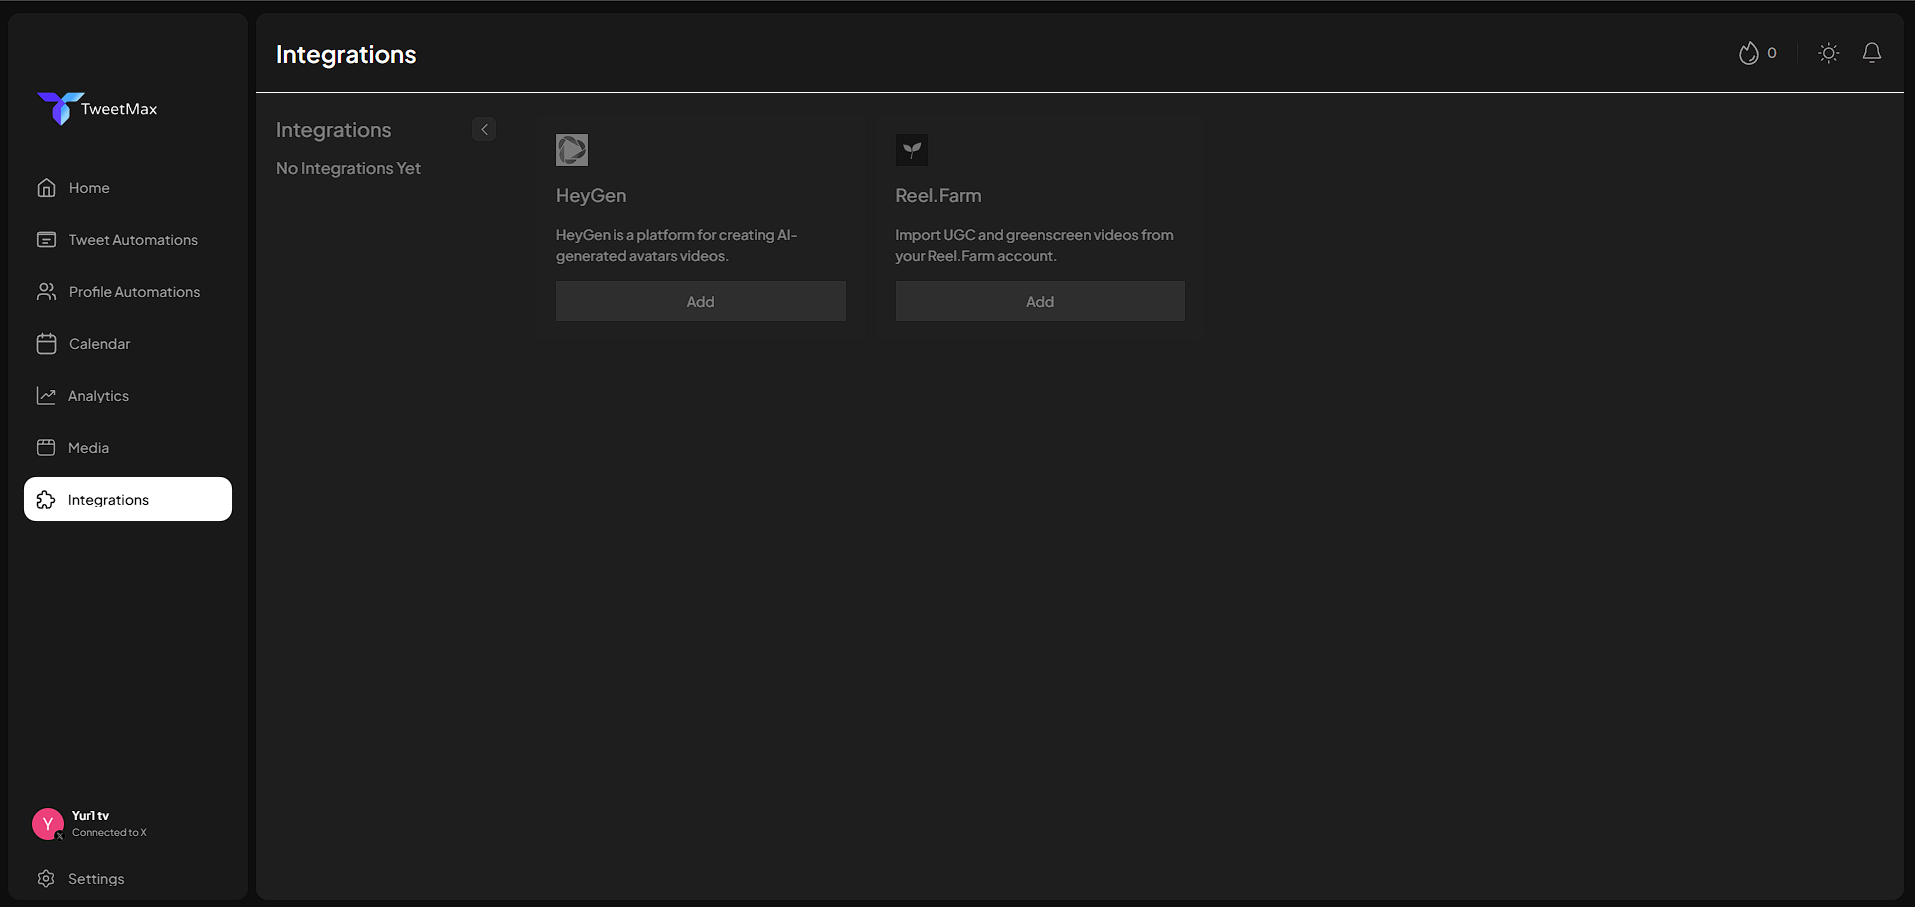
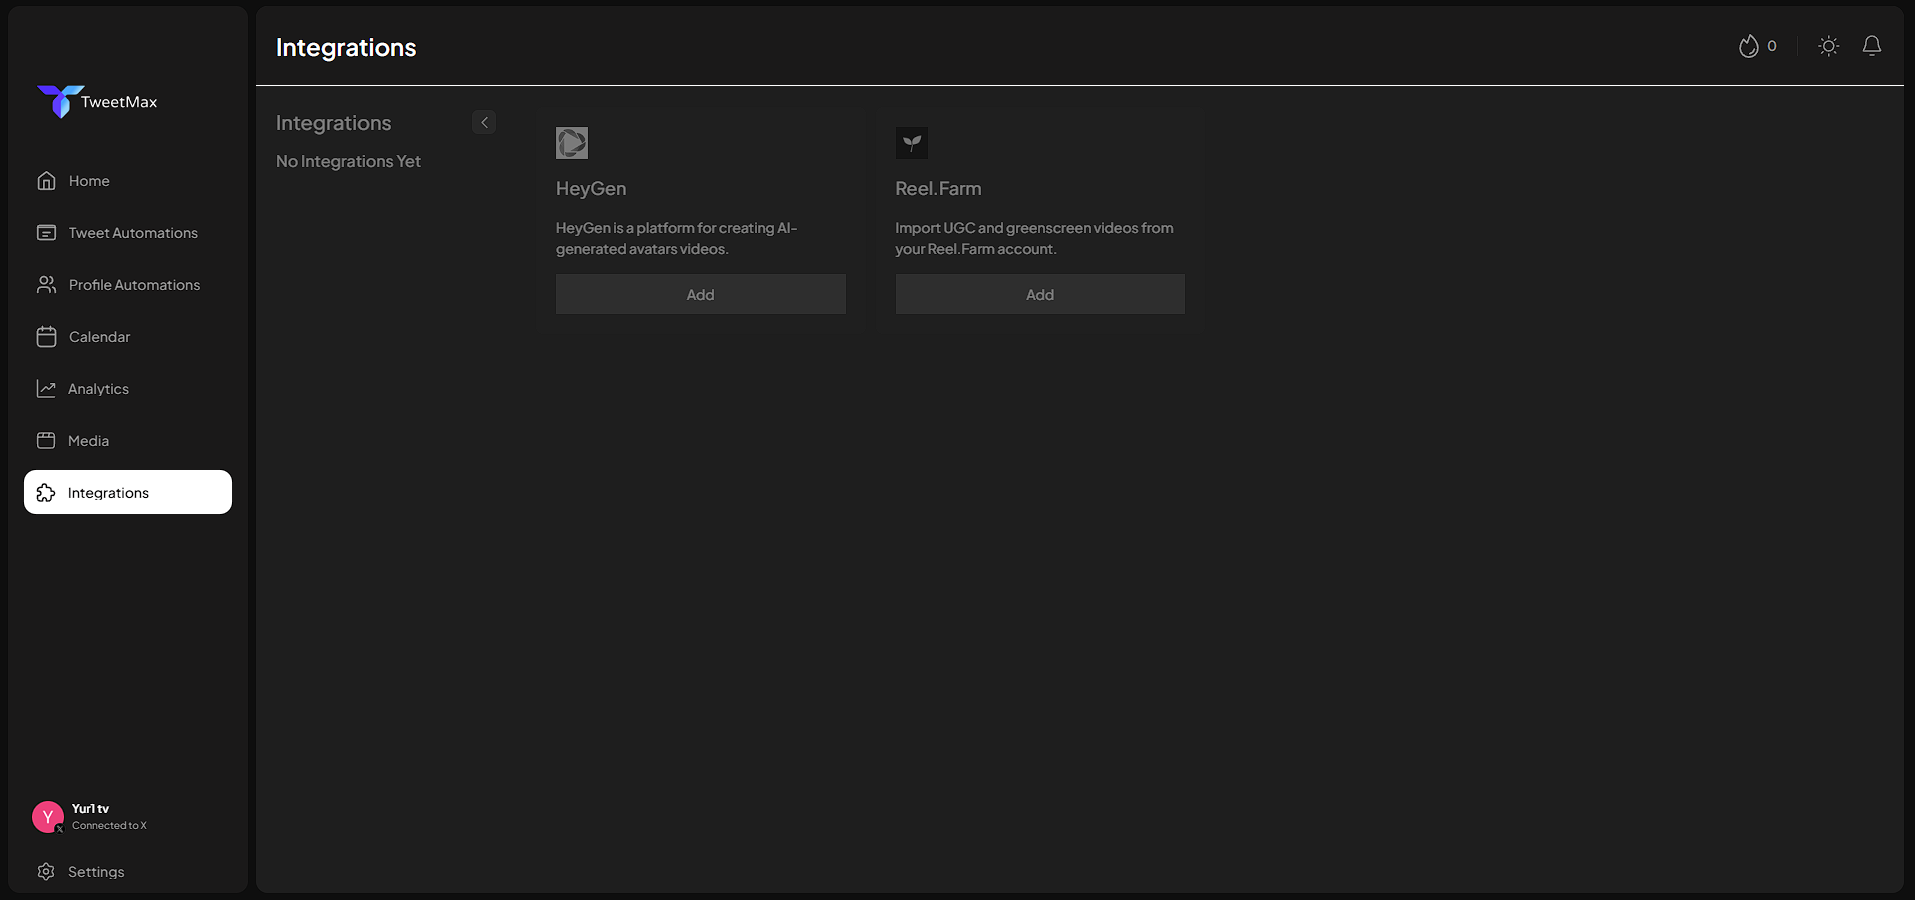
commit

diff --git a/src/components/section/mainSection/MainHeroSection.tsx b/src/components/section/mainSection/MainHeroSection.tsx
@@ -20,46 +20,59 @@ export function MainHeroSection() {
         <>
             <div className="sect-main">
                 <div className="container">
-                    <div className="sect-title wow fadeInUp">
-                        <h1 className="s-title font-3">
-                            Maximize Your 𝕏 Engagement. <br />
-                            <div className="text-change_wrap">
-                                {assitantsAiItems.map((item, idx) => (
-                                    <div key={idx} className={`text-change_rotating  ${idx === index ? "active" : ""}`}>
-                                        {item.name}
+                    <div className="row align-items-center hero-row">
+                        <div className="col-lg-6">
+                            <div className="sect-title hero-copy wow fadeInUp">
+                                <h1 className="s-title font-3">
+                                    Maximize Your 𝕏 Engagement. <br />
+                                    <div className="text-change_wrap">
+                                        {assitantsAiItems.map((item, idx) => (
+                                            <div key={idx} className={`text-change_rotating  ${idx === index ? "active" : ""}`}>
+                                                {item.name}
+                                            </div>
+                                        ))}
                                     </div>
-                                ))}
+                                </h1>
+                                <p className="s-sub_title">
+                                    Create a system to reach your target audience <br className="d-none d-sm-block" />
+                                    and turn their attention into conversions.
+                                </p>
+
+                                <div className="hero-cta-group wow fadeInUp">
+                                    <Link href="https://app.tweetmax.io" target="_blank" rel="noopener noreferrer" className="tf-btn style-2 style-high animate-btn animate-dark">
+                                        <span>Automate Your 𝕏 Now</span>
+                                    </Link>
+                                </div>
+
+                                <div className="hero-social-proof wow fadeInUp">
+                                    <ul className="hero-avatar-pile" aria-hidden="true">
+                                        {heroAvatars.map((src) => (
+                                            <li key={src}>
+                                                <Image
+                                                    src={`/assets/images/avatar/${src}`}
+                                                    alt=""
+                                                    width={36}
+                                                    height={36}
+                                                    className="hero-avatar"
+                                                />
+                                            </li>
+                                        ))}
+                                    </ul>
+                                    <p className="hero-social-proof_caption text-caption font-2">
+                                        <span className="hero-social-proof_dot" aria-hidden="true"></span>
+                                        6,000+ creators automating their 𝕏 with TweetMax
+                                    </p>
+                                </div>
                             </div>
-                        </h1>
-                        <p className="s-sub_title">
-                            Create a system to reach your target audience <br className="d-none d-sm-block" />
-                            and turn their attention into conversions.
-                        </p>
-
-                        <div className="hero-cta-group wow fadeInUp">
-                            <Link href="https://app.tweetmax.io" target="_blank" rel="noopener noreferrer" className="tf-btn style-2 style-high animate-btn animate-dark">
-                                <span>Automate Your 𝕏 Now</span>
-                            </Link>
                         </div>
-
-                        <div className="hero-social-proof wow fadeInUp">
-                            <ul className="hero-avatar-pile" aria-hidden="true">
-                                {heroAvatars.map((src) => (
-                                    <li key={src}>
-                                        <Image
-                                            src={`/assets/images/avatar/${src}`}
-                                            alt=""
-                                            width={36}
-                                            height={36}
-                                            className="hero-avatar"
-                                        />
-                                    </li>
-                                ))}
-                            </ul>
-                            <p className="hero-social-proof_caption text-caption font-2">
-                                <span className="hero-social-proof_dot" aria-hidden="true"></span>
-                                6,000+ creators automating their 𝕏 with TweetMax
-                            </p>
+                        <div className="col-lg-6 hero-visual wow fadeInUp">
+                            <Image
+                                src="/assets/images/section/hero-image.png"
+                                alt="TweetMax dashboard preview"
+                                width={1078}
+                                height={606}
+                                priority
+                            />
                         </div>
                     </div>
                 </div>
@@ -67,4 +80,3 @@ export function MainHeroSection() {
         </>
     );
 }
-

diff --git a/public/assets/scss/_sections.scss b/public/assets/scss/_sections.scss
@@ -1871,7 +1871,63 @@
     }
 }
 
-// Hero CTA + social proof (TweetMax)
+// Hero two-column layout + CTA + social proof (TweetMax)
+.section-hero {
+    overflow: hidden;
+
+    .container {
+        overflow: hidden;
+    }
+}
+
+.hero-row {
+    row-gap: 48px;
+}
+
+.hero-visual {
+    display: flex;
+    justify-content: center;
+
+    img {
+        max-width: 100%;
+        height: auto;
+        display: block;
+    }
+}
+
+@include res(lg, min) {
+    .section-hero .hero-copy {
+        text-align: left;
+    }
+
+    .section-hero .hero-copy .text-change_wrap {
+        justify-content: flex-start;
+    }
+
+    .hero-cta-group {
+        align-items: flex-start;
+    }
+
+    .hero-social-proof {
+        align-items: flex-start;
+    }
+
+    .hero-visual {
+        justify-content: flex-start;
+        align-items: center;
+        overflow: hidden;
+        padding-right: 0;
+
+        img {
+            width: 130%;
+            max-width: none;
+            margin: 0;
+            object-fit: cover;
+            object-position: left center;
+        }
+    }
+}
+
 .hero-cta-group {
     margin-top: 40px;
     display: flex;